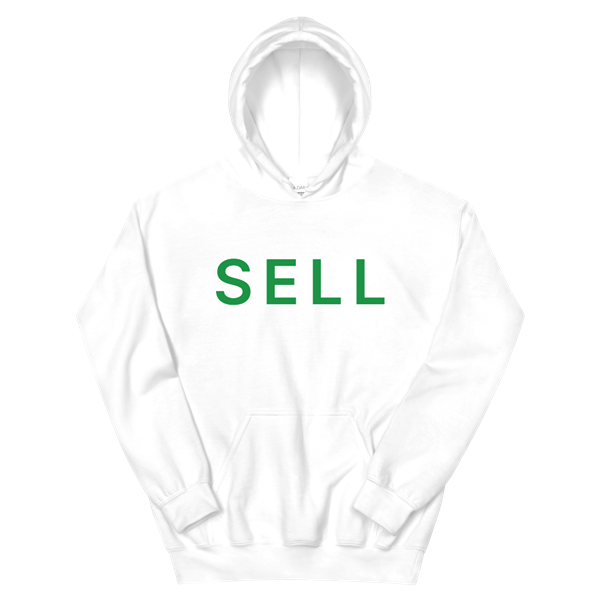
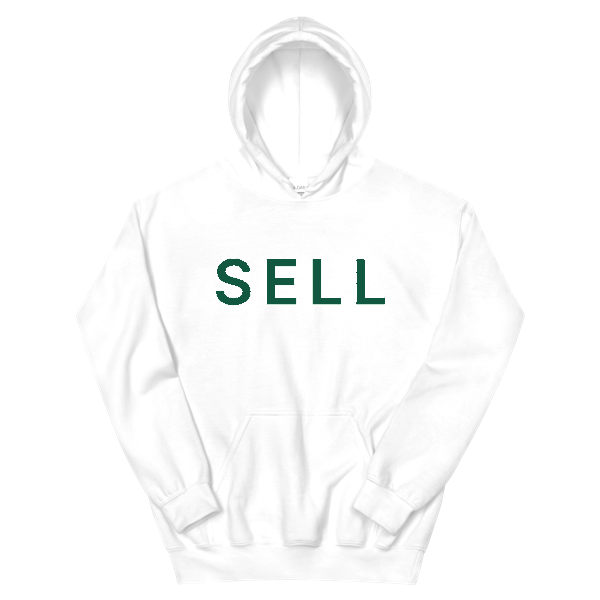
Use Gotham Green for New York Alternate One

Changed region(s): [[0.36, 0.42, 0.66, 0.51]]

diff --git a/lib/products.ts b/lib/products.ts
@@ -77,6 +77,7 @@ export function colorHex(team: Team, style: Style): string {
 }
 
 export function printColorName(team: Team, style: Style): string {
+  if (team.slug === "nfl-new-york-green-alternate-one") return "Gotham Green";
   if (team.alternateOf) {
     const original = getTeam(team.alternateOf);
     if (original) {
@@ -97,6 +98,7 @@ export function printColorName(team: Team, style: Style): string {
 }
 
 export function printColorHex(team: Team, style: Style): string {
+  if (team.slug === "nfl-new-york-green-alternate-one") return "#125740";
   if (team.alternateOf) {
     const original = getTeam(team.alternateOf);
     if (original) {

diff --git a/lib/art.ts b/lib/art.ts
@@ -1,4 +1,4 @@
 // Bump when the shirt artwork or photos change: Printful caches print files by
 // URL and next/image caches optimized photos by URL, so a new number makes
 // both fetch fresh copies.
-export const ART_VERSION = 24;
+export const ART_VERSION = 25;
